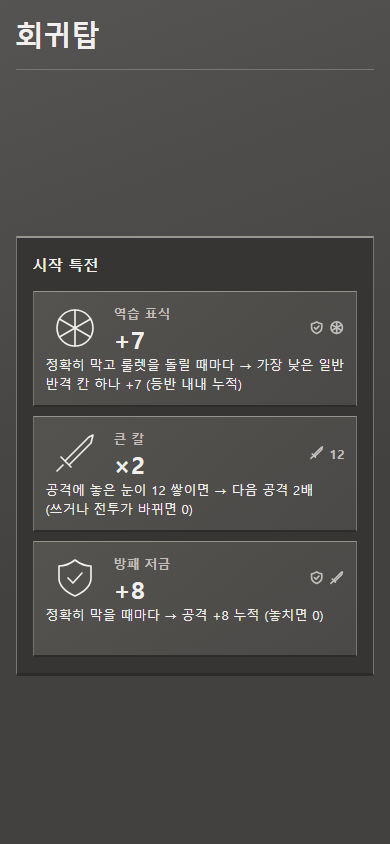
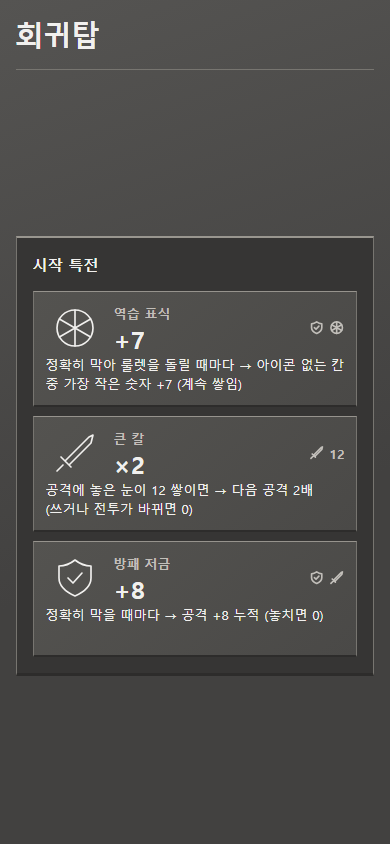
Clarify counter and collector perk descriptions

diff --git a/src/main.ts b/src/main.ts
@@ -98,8 +98,8 @@ const perkDisplay = {
     label: `공격에 놓은 눈이 ${START_PERKS.blade.threshold} 쌓이면 → 다음 공격 ${START_PERKS.blade.multiplier}배 (쓰거나 전투가 바뀌면 0)`,
   },
   collector: {
-    value: '+N', detail: `${icon('die')}=${icon('die')}`,
-    label: `같은 눈 2개 이상인 칸 → +N (새 족보 첫 사용마다 N+${START_PERKS.collector.step}, 최대 ${START_PERKS.collector.maximum})`,
+    value: `+${START_PERKS.collector.initial}~${START_PERKS.collector.maximum}`, detail: `${icon('die')}=${icon('die')}`,
+    label: `같은 눈 2개 이상인 칸에 보너스. 처음 ${START_PERKS.collector.initial}, 새 족보(트리플·스트레이트 등) 첫 사용마다 +${START_PERKS.collector.step} (최대 +${START_PERKS.collector.maximum})`,
   },
   reroll: {
     value: '+1', detail: `${icon('heart')} −${START_PERKS.reroll.cost}`,
@@ -111,7 +111,7 @@ const perkDisplay = {
   },
   counter: {
     value: `+${START_PERKS.counter.step}`, detail: `${icon('parry')}${icon('wheel')}`,
-    label: `정확히 막고 룰렛을 돌릴 때마다 → 가장 낮은 일반 반격 칸 하나 +${START_PERKS.counter.step} (등반 내내 누적)`,
+    label: `정확히 막아 룰렛을 돌릴 때마다 → 아이콘 없는 칸 중 가장 작은 숫자 +${START_PERKS.counter.step} (계속 쌓임)`,
   },
 } as const
 
